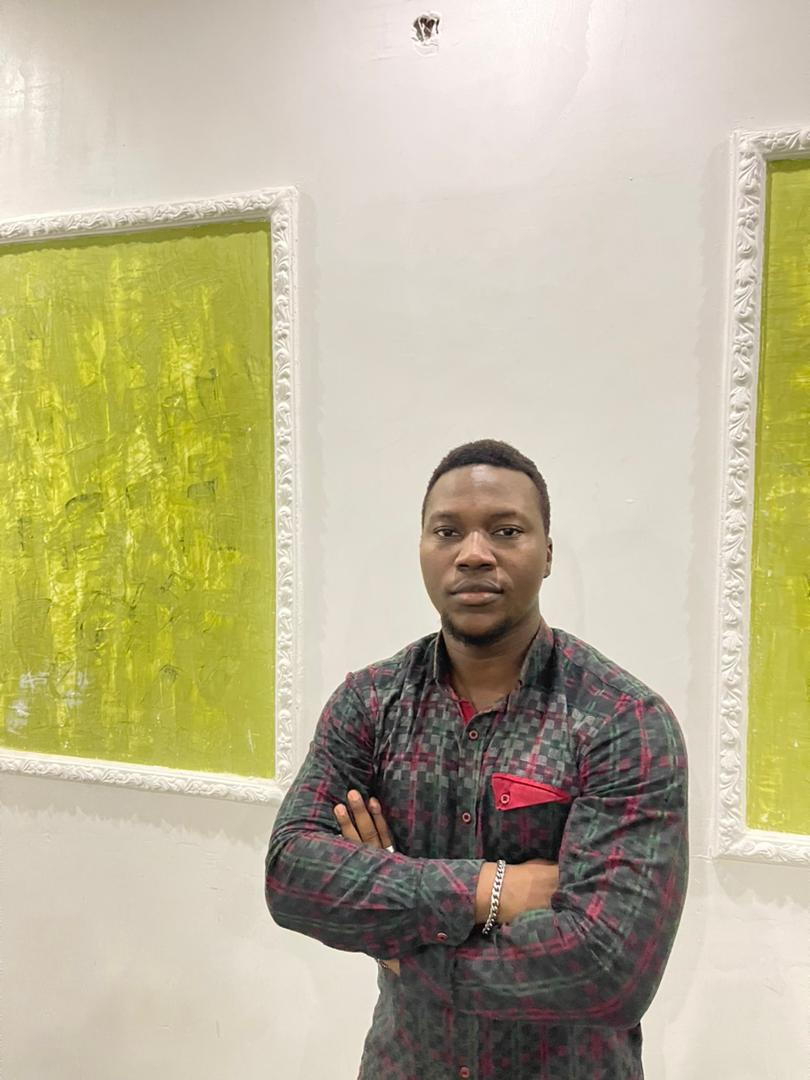
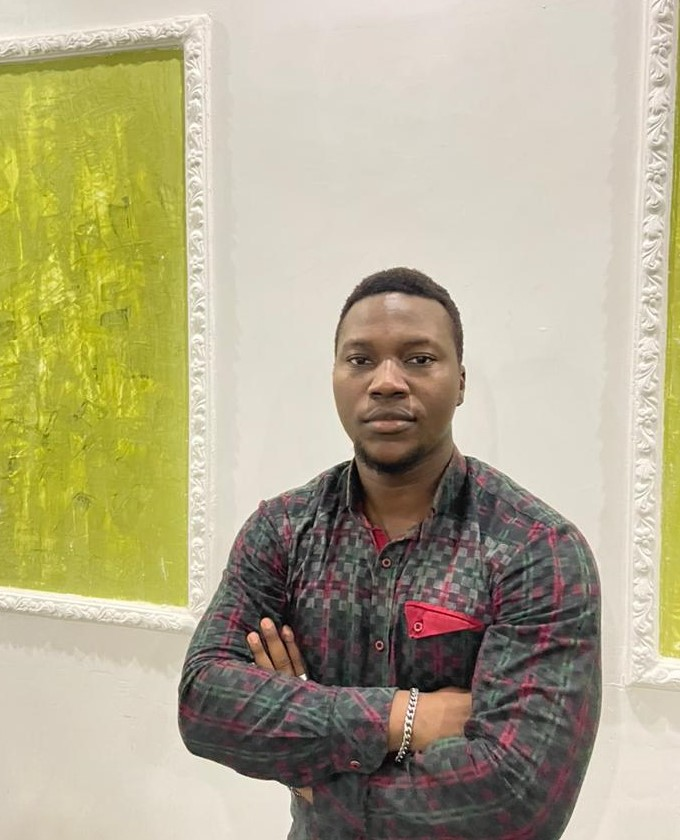
final tweaking...make i go read book

diff --git a/style.css b/style.css
@@ -246,7 +246,7 @@ main{
     width: 100%;
     position: relative;
     padding-top: 100px;
-    height: 940px;
+    height: 100vh;
     overflow-y: hidden;
     
     
@@ -278,14 +278,16 @@ main{
     height: auto;
     border-radius: 26px;
     margin-bottom: 20px;
+    /* margin-top: 30px; */
     text-align: center;
-    width: 100%;
+    max-width: 310px;
 }
 
 #about-col2{
     width: 50%;
     height: auto;
     padding: 30px 0 0 0;
+    margin-top: 50px;
 
 }
 
@@ -434,7 +436,7 @@ main{
     #page-about{
         min-height: 1000px;
         position: relative;
-        background-image: linear-gradient(rgba(0,0,0,0.8),rgba(0,0,0,0.8)), url(./images/IMG-20230402-WA0141.jpg);
+        background-image: linear-gradient(rgba(0,0,0,0.85),rgba(0,0,0,0.85)), url(./images/background.jpg);
         background-repeat: no-repeat;
         background-size: cover ;
         /* background-attachment: fixed; */
@@ -573,11 +575,12 @@ main{
     }
     
     #me{
-        max-width:250px;
+        max-width:210px;
         background-size: cover;
         height: auto;
-        border-radius: 26px;
-        margin-bottom: 20px;
+        /* border-radius: 100%; */
+        border-radius: 25px;
+        margin: 60px 0 20px 0;
         text-align: center;
     }
 

diff --git a/index.html b/index.html
@@ -151,7 +151,7 @@
                         </h3>
                         <div id="about-row" class=" mb-3 ">
                             <div id="about-col1" >
-                                <img id="me" class="text-center " src="./images/IMG-20230402-WA0138.jpg" alt="">
+                                <img id="me" class="text-center border border-white border-5" src="./images/IMG-20230402-WA0138.jpg" alt="">
                             </div>
                             <div id="about-col2" >
                                 
